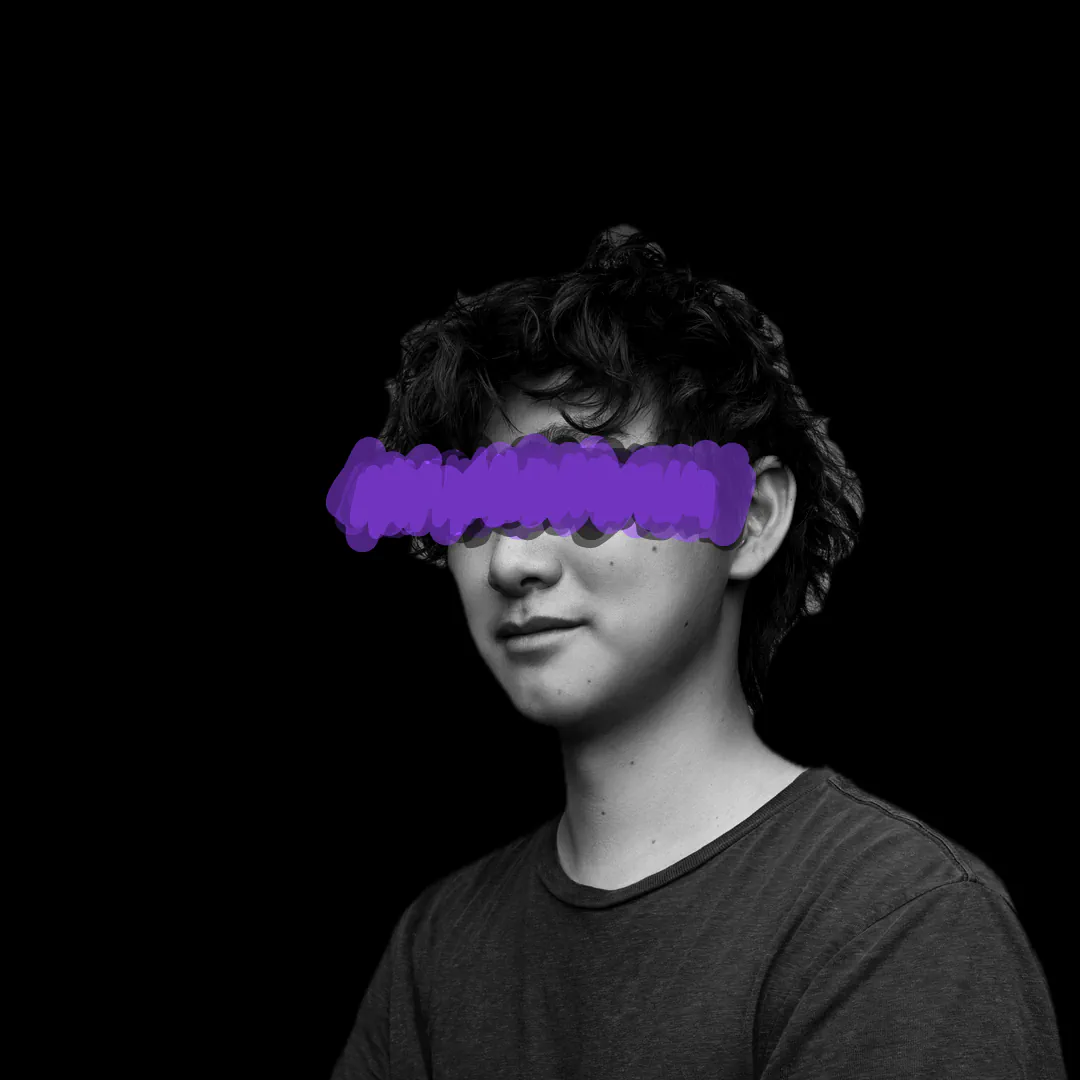
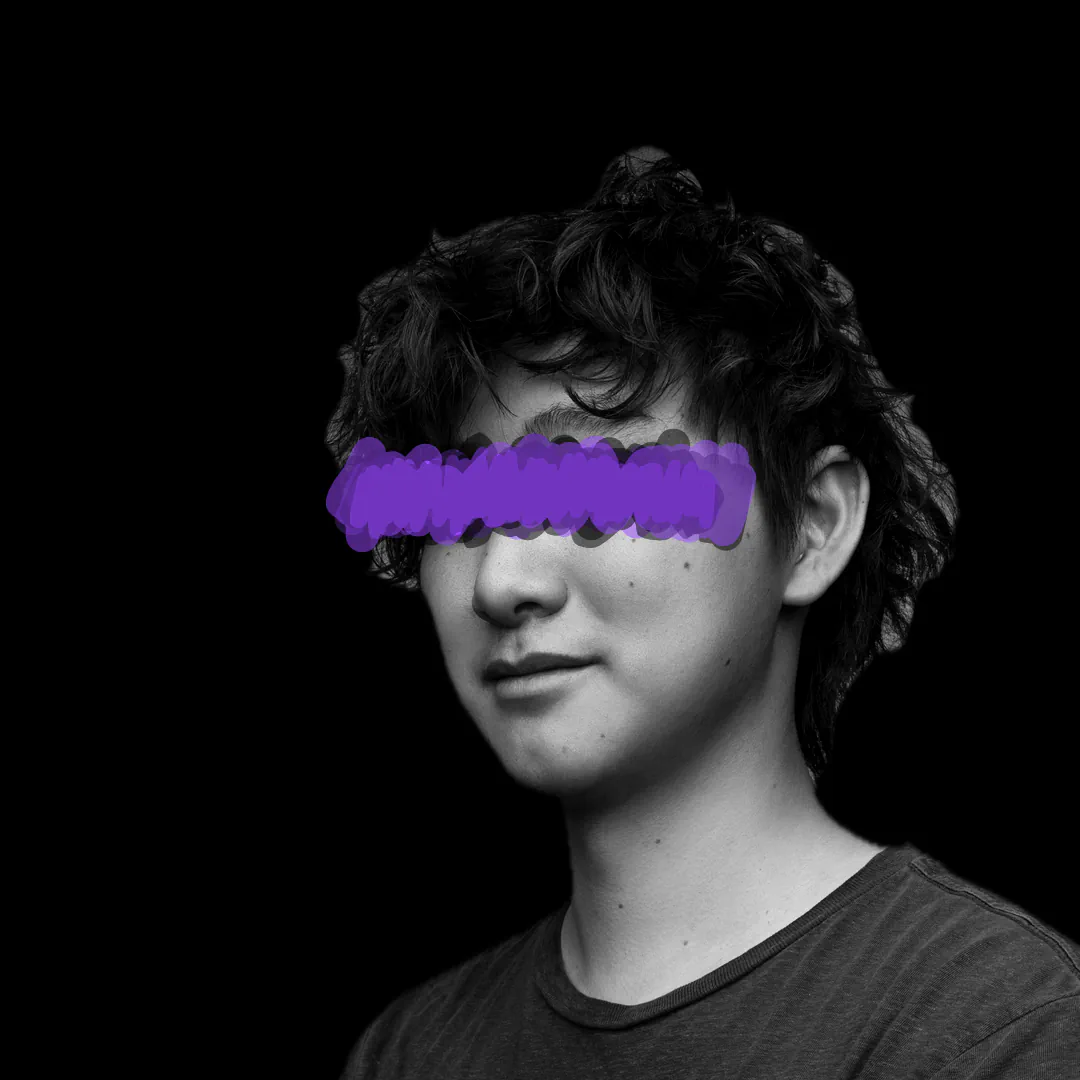
Enlarge Alexandr Wang portrait

Changed region(s): [[0.3056, 0.1222, 1.0, 1.0], [0.3056, 0.9472, 0.3361, 1.0]]

diff --git a/docs/content-analysis/portrait-sources/2026-08-25-real-photo-replacements.md b/docs/content-analysis/portrait-sources/2026-08-25-real-photo-replacements.md
@@ -21,3 +21,7 @@ The 2026-08-25 alignment pass measures the largest photographed face and its eye
 Apple Vision, then places the face center at x=540 and the eye line at y=490 on the 1080×1080
 master. This keeps asymmetric shoulders, hair, microphones, and gestures from pulling the face
 off-center. No pixels were generated or reconstructed during the alignment pass.
+
+On 2026-08-26, Alexandr Wang's subject height was increased from 1280px to 1650px while retaining
+the same landmark anchors. This makes his face approximately 29% larger without changing the
+source photograph, template, or processing method.
